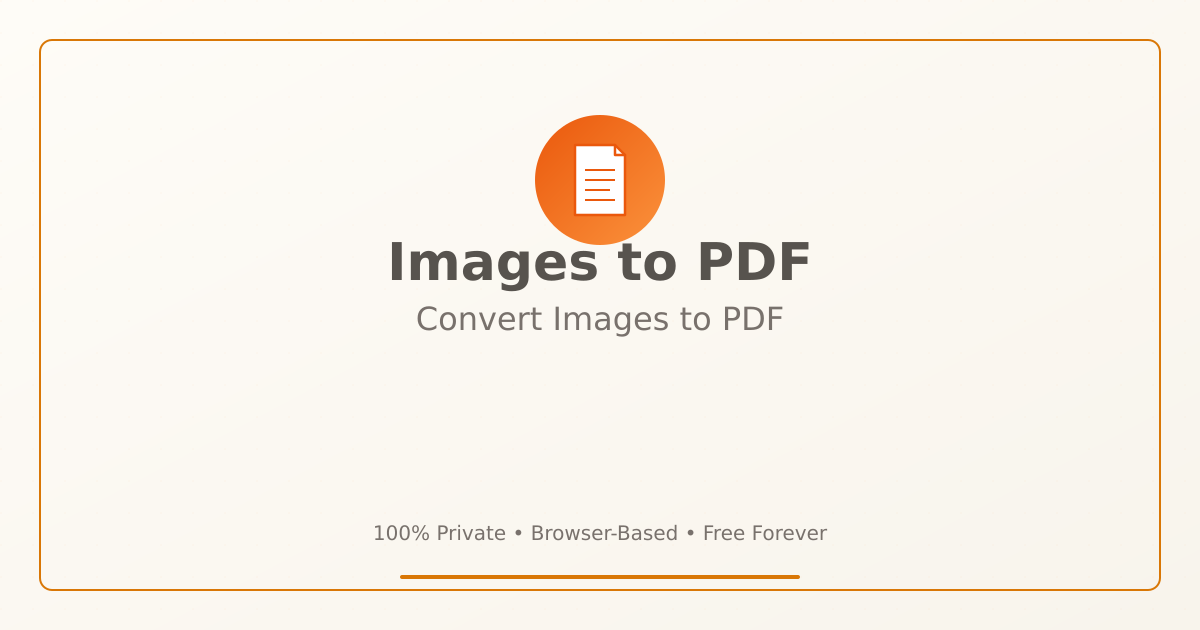
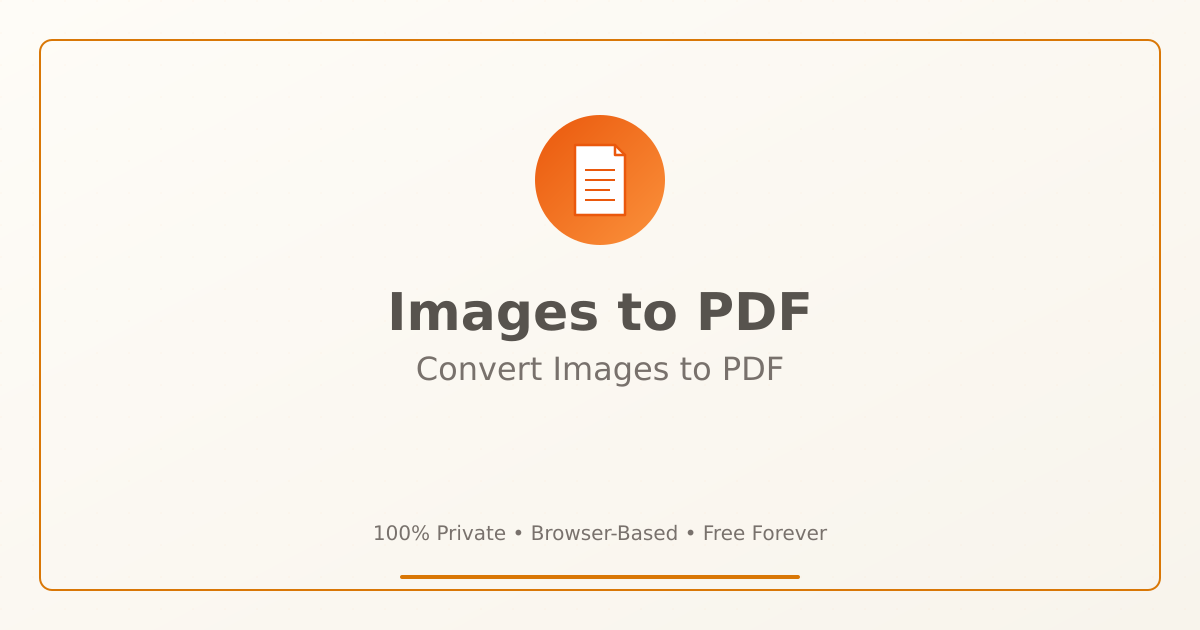
fix: Make light theme boxes MUCH more visible and simplify page numbers
- Increased OG image spacing between favicon and title (baseY: 280 -> 330)
- Regenerated all OG images with better visual balance

Changed region(s): [[0.3083, 0.3619, 0.6783, 0.6032]]

diff --git a/scripts/generate-og-images.js b/scripts/generate-og-images.js
@@ -41,7 +41,7 @@ function generateSVG(tool) {
   const subtitleLines = wrapText(tool.subtitle, 40);
 
   // Calculate vertical positioning with more spacing
-  const baseY = 280;
+  const baseY = 330;
   const titleSpacing = 75;
   const subtitleSpacing = 60;
   const gapBetweenTitleSubtitle = 50;
